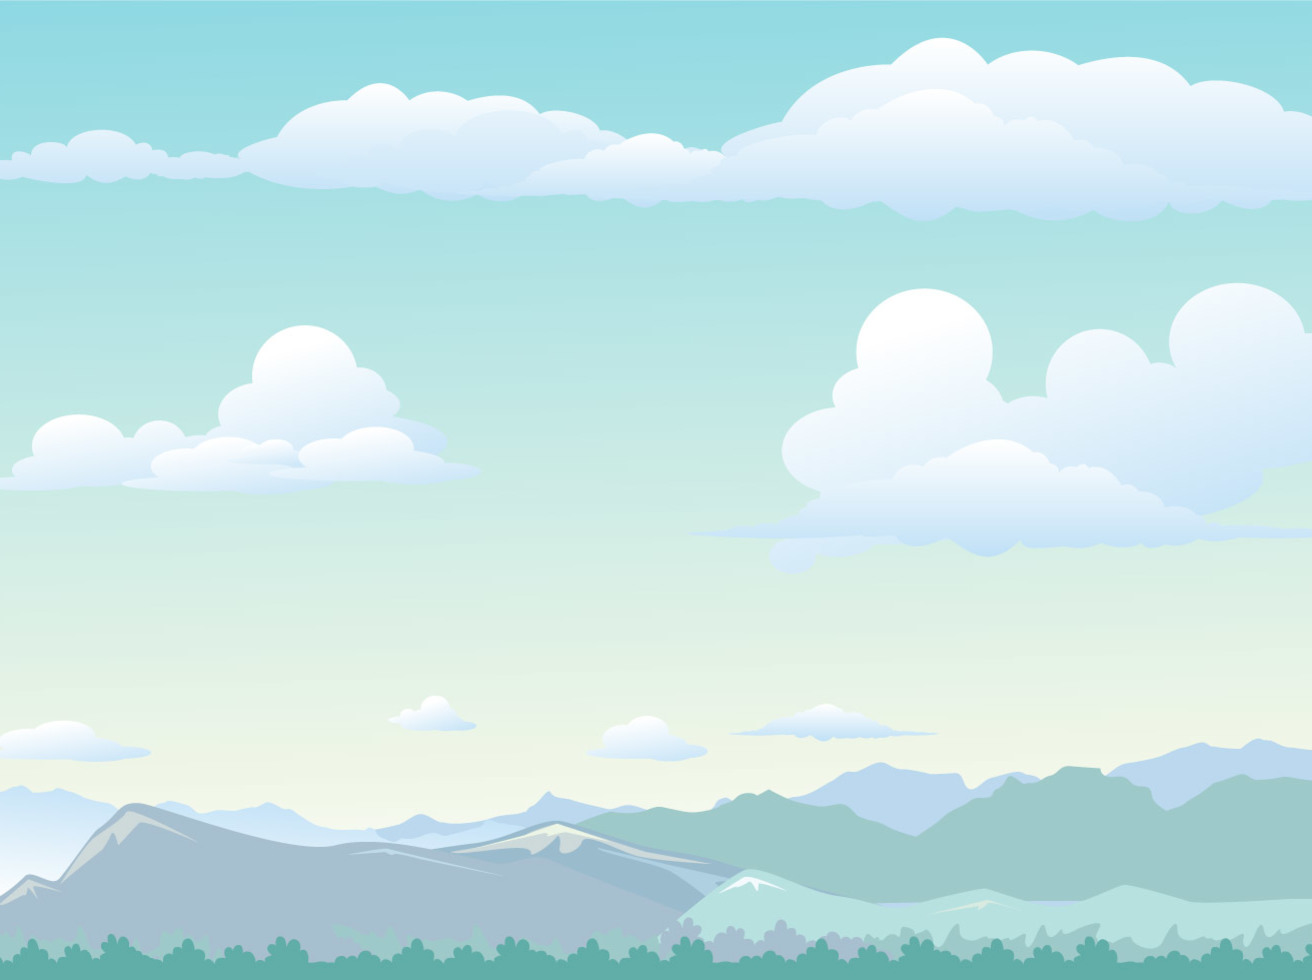
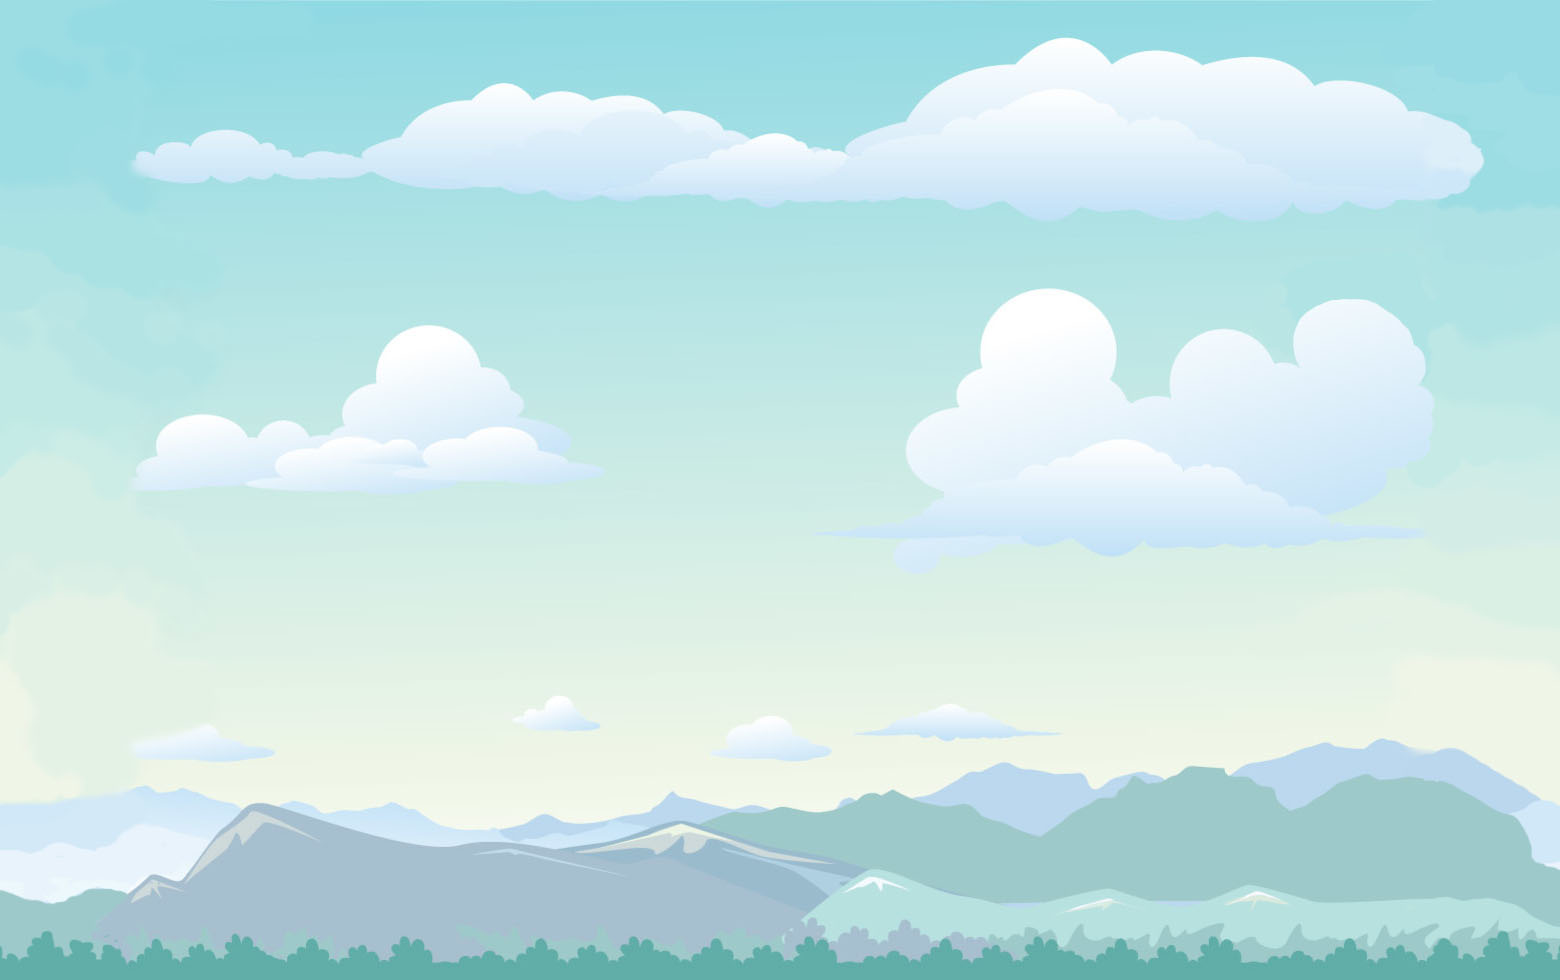
vers 1.1

diff --git a/src/main/java/Game/Bird.java b/src/main/java/Game/Bird.java
@@ -9,7 +9,7 @@ import java.security.Key;
 public class Bird {
 
     public static final int MAX_TOP = 0;
-    public static final int MAX_BOT = 480;
+    public static final int MAX_BOT = 680;
 
     Image bird = new ImageIcon("C:\\Users\\huawei\\IdeaProjects\\FlappyBird\\src\\main\\java\\Game\\res\\bird_right.png").getImage();
     boolean isPassed = false;
@@ -26,7 +26,7 @@ public class Bird {
 
 
     int layer1 = 0;
-    int layer2 = 1300;
+    int layer2 = 1560;
 
     public void fly() {
         v += a;
@@ -37,13 +37,13 @@ public class Bird {
             y=MAX_TOP;
             bird=new ImageIcon("C:\\Users\\huawei\\IdeaProjects\\FlappyBird\\src\\main\\java\\Game\\res\\bird_right.png").getImage();
         }
-        if(y>=480){
+        if(y>=680){
             y=MAX_BOT;
             bird=new ImageIcon("C:\\Users\\huawei\\IdeaProjects\\FlappyBird\\src\\main\\java\\Game\\res\\bird_right.png").getImage();
         }
         if (layer2 - v <= 0) {
             layer1 = 0;
-            layer2 = 1300;
+            layer2 = 1560;
         } else {
             layer1 -= v;
             layer2 -= v;

diff --git a/src/main/java/Game/Main.java b/src/main/java/Game/Main.java
@@ -6,7 +6,7 @@ public class Main {
     public static void main(String[] args) {
         JFrame mainFrame=new JFrame("Flappy Bird vers by Di");
         mainFrame.setDefaultCloseOperation(JFrame.EXIT_ON_CLOSE);
-        mainFrame.setSize(1320,980);
+        mainFrame.setSize(1560,980);
         mainFrame.add(new Sky());
 
         mainFrame.setVisible(true);

diff --git a/src/main/java/Game/Sky.java b/src/main/java/Game/Sky.java
@@ -19,7 +19,7 @@ public class Sky extends JPanel  implements ActionListener,Runnable {
     Thread tube=new Thread(this);
 
 
-    Timer timer=new Timer(20,this);
+    Timer timer=new Timer(40,this);
     @Override
     public void paint(Graphics g) {
         g= (Graphics2D) g;
